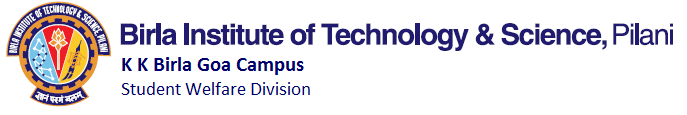
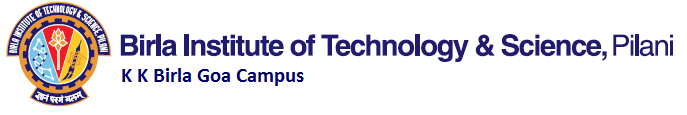
Change bonafide letterhead + footer

Changed region(s): [[0.1528, 0.1826, 0.9782, 0.8348]]

diff --git a/swd/templates/bonafidepage.html b/swd/templates/bonafidepage.html
@@ -33,6 +33,10 @@
     #letterhead {
       line-height: 0.1;
       padding-top: 30px;
+      color: hsl(240deg 100% 30%);
+      line-height: 1.1;
+      font-size: 16px;
+      font-weight: 700;
     }
 
     #footer {
@@ -56,7 +60,8 @@
     }
   </style>
   <div id="letterhead">
-    <img src="{% static 'img/bonafide_header.png' %}" width=595px>
+    <img src="{% static 'img/bonafide_header.png' %}" width=595px style="filter: blur(-5px);">
+    Student Welfare Division
   </div>
 </head>
 
